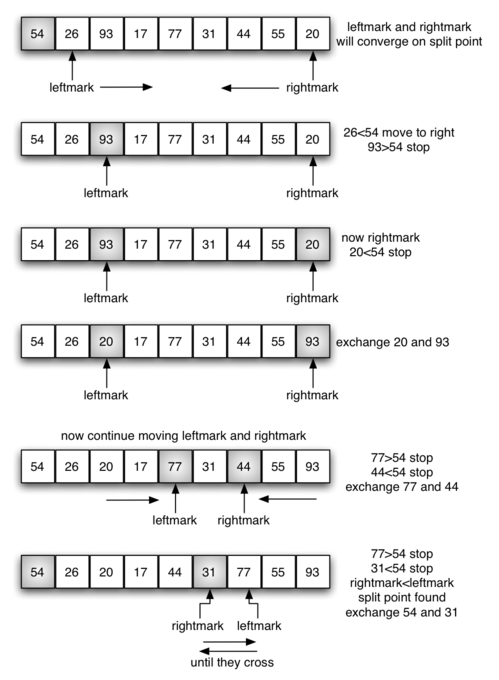
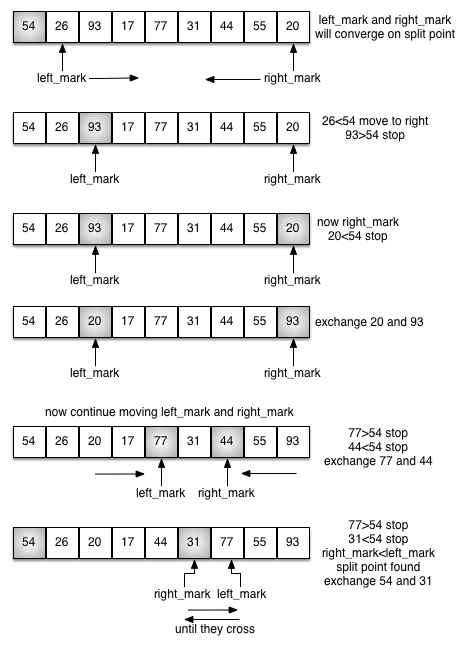
Update source code to adhere to PEP8

Changed region(s): [[0.0, 0.0, 0.9809, 0.5882], [0.0, 0.805, 0.9214, 0.9907], [0.0, 0.6192, 0.9214, 0.774]]

diff --git a/_sources/SortSearch/TheQuickSort.rst b/_sources/SortSearch/TheQuickSort.rst
@@ -38,7 +38,7 @@ either less than or greater than the pivot value.
 
 
 Partitioning begins by locating two position markers—let’s call them
-``leftmark`` and ``rightmark``—at the beginning and end of the remaining
+``left_mark`` and ``right_mark``—at the beginning and end of the remaining
 items in the list (positions 1 and 8 in :ref:`Figure 13 <fig_partitionA>`). The goal
 of the partition process is to move items that are on the wrong side
 with respect to the pivot value while also converging on the split
@@ -52,15 +52,15 @@ of 54.
 
    Figure 13: Finding the Split Point for 54
 
-We begin by incrementing ``leftmark`` until we locate a value that is
-greater than the pivot value. We then decrement ``rightmark`` until we
+We begin by incrementing ``left_mark`` until we locate a value that is
+greater than the pivot value. We then decrement ``right_mark`` until we
 find a value that is less than the pivot value. At this point we have
 discovered two items that are out of place with respect to the eventual
 split point. For our example, this occurs at 93 and 20. Now we can
 exchange these two items and then repeat the process again.
 
-At the point where ``rightmark`` becomes less than ``leftmark``, we
-stop. The position of ``rightmark`` is now the split point. The pivot
+At the point where ``right_mark`` becomes less than ``left_mark``, we
+stop. The position of ``right_mark`` is now the split point. The pivot
 value can be exchanged with the contents of the split point and the
 pivot value is now in place (:ref:`Figure 14 <fig_partitionB>`). In addition, all the
 items to the left of the split point are less than the pivot value, and
@@ -76,8 +76,8 @@ can be invoked recursively on the two halves.
    Figure 14: Completing the Partition Process to Find the Split Point for 54
 
 
-The ``quickSort`` function shown in :ref:`ActiveCode 1 <lst_quick>` invokes a recursive
-function, ``quickSortHelper``. ``quickSortHelper`` begins with the same
+The ``quick_sort`` function shown in :ref:`ActiveCode 1 <lst_quick>` invokes a recursive
+function, ``quick_sort_helper``. ``quick_sort_helper`` begins with the same
 base case as the merge sort. If the length of the list is less than or
 equal to one, it is already sorted. If it is greater, then it can be
 partitioned and recursively sorted. The ``partition`` function
@@ -87,50 +87,43 @@ implements the process described earlier.
 .. activecode:: lst_quick
     :caption: Quick Sort
 
-    def quickSort(alist):
-       quickSortHelper(alist,0,len(alist)-1)
-
-    def quickSortHelper(alist,first,last):
-       if first<last:
-
-           splitpoint = partition(alist,first,last)
-
-           quickSortHelper(alist,first,splitpoint-1)
-           quickSortHelper(alist,splitpoint+1,last)
+    def quick_sort(a_list):
+        quick_sort_helper(a_list, 0, len(a_list) - 1)
 
 
-    def partition(alist,first,last):
-       pivotvalue = alist[first]
-
-       leftmark = first+1
-       rightmark = last
-
-       done = False
-       while not done:
-
-           while leftmark <= rightmark and alist[leftmark] <= pivotvalue:
-               leftmark = leftmark + 1
-
-           while alist[rightmark] >= pivotvalue and rightmark >= leftmark:
-               rightmark = rightmark -1
-
-           if rightmark < leftmark:
-               done = True
-           else:
-               temp = alist[leftmark]
-               alist[leftmark] = alist[rightmark]
-               alist[rightmark] = temp
-
-       temp = alist[first]
-       alist[first] = alist[rightmark]
-       alist[rightmark] = temp
+    def quick_sort_helper(a_list, first, last):
+        if first < last:
+            split = partition(a_list, first, last)
+            quick_sort_helper(a_list, first, split - 1)
+            quick_sort_helper(a_list, split + 1, last)
 
 
-       return rightmark
+    def partition(a_list, first, last):
+        pivot_val = a_list[first]
+        left_mark = first + 1
+        right_mark = last
+        done = False
 
-    alist = [54,26,93,17,77,31,44,55,20]
-    quickSort(alist)
-    print(alist)
+        while not done:
+            while left_mark <= right_mark and a_list[left_mark] <= pivot_val:
+                left_mark = left_mark + 1
+            while left_mark <= right_mark and a_list[right_mark] >= pivot_val:
+                right_mark = right_mark - 1
+            if right_mark < left_mark:
+                done = True
+            else:
+                a_list[left_mark], a_list[right_mark] = (
+                    a_list[right_mark],
+                    a_list[left_mark],
+                )
+        a_list[first], a_list[right_mark] = a_list[right_mark], a_list[first]
+
+        return right_mark
+
+
+    a_list = [54, 26, 93, 17, 77, 31, 44, 55, 20]
+    quick_sort(a_list)
+    print(a_list)
 
 
 
@@ -146,66 +139,57 @@ implements the process described earlier.
 .. .. codelens:: quicktrace
 ..     :caption: Tracing the Quick Sort
 ..
-..     def quickSort(alist):
-..        quickSortHelper(alist,0,len(alist)-1)
-..
-..     def quickSortHelper(alist,first,last):
-..        if first<last:
-..
-..            splitpoint = partition(alist,first,last)
-..
-..            quickSortHelper(alist,first,splitpoint-1)
-..            quickSortHelper(alist,splitpoint+1,last)
-..
-..
-..     def partition(alist,first,last):
-..        pivotvalue = alist[first]
-..
-..        leftmark = first+1
-..        rightmark = last
-..
-..        done = False
-..        while not done:
-..
-..            while leftmark <= rightmark and \
-..                    alist[leftmark] <= pivotvalue:
-..                leftmark = leftmark + 1
-..
-..            while alist[rightmark] >= pivotvalue and \
-..                    rightmark >= leftmark:
-..                rightmark = rightmark -1
-..
-..            if rightmark < leftmark:
-..                done = True
-..            else:
-..                temp = alist[leftmark]
-..                alist[leftmark] = alist[rightmark]
-..                alist[rightmark] = temp
-..
-..        temp = alist[first]
-..        alist[first] = alist[rightmark]
-..        alist[rightmark] = temp
-..
-..
-..        return rightmark
-..
-..     alist = [54,26,93,17,77,31,44,55,20]
-..     quickSort(alist)
-..     print(alist)
+..     def quick_sort(a_list):
+..         quick_sort_helper(a_list, 0, len(a_list) - 1)
+..     
+..     
+..     def quick_sort_helper(a_list, first, last):
+..         if first < last:
+..             split = partition(a_list, first, last)
+..             quick_sort_helper(a_list, first, split - 1)
+..             quick_sort_helper(a_list, split + 1, last)
+..     
+..     
+..     def partition(a_list, first, last):
+..         pivot_val = a_list[first]
+..         left_mark = first + 1
+..         right_mark = last
+..         done = False
+..     
+..         while not done:
+..             while left_mark <= right_mark and a_list[left_mark] <= pivot_val:
+..                 left_mark = left_mark + 1
+..             while left_mark <= right_mark and a_list[right_mark] >= pivot_val:
+..                 right_mark = right_mark - 1
+..             if right_mark < left_mark:
+..                 done = True
+..             else:
+..                 a_list[left_mark], a_list[right_mark] = (
+..                     a_list[right_mark],
+..                     a_list[left_mark],
+..                 )
+..         a_list[first], a_list[right_mark] = a_list[right_mark], a_list[first]
+..     
+..         return right_mark
+..     
+..     
+..     a_list = [54, 26, 93, 17, 77, 31, 44, 55, 20]
+..     quick_sort(a_list)
+..     print(a_list)
 
-To analyze the ``quickSort`` function, note that for a list of length
-*n*, if the partition always occurs in the middle of the list, there
-will again be :math:`\log n` divisions. In order to find the split
-point, each of the *n* items needs to be checked against the pivot
-value. The result is :math:`n\log n`. In addition, there is no need
+To analyze the ``quick_sort`` function, note that for a list of length
+:math:`n`, if the partition always occurs in the middle of the list, there
+will again be :math:`\log{n}` divisions. In order to find the split
+point, each of the :math:`n` items needs to be checked against the pivot
+value. The result is :math:`n\log{n}`. In addition, there is no need
 for additional memory as in the merge sort process.
 
 Unfortunately, in the worst case, the split points may not be in the
 middle and can be very skewed to the left or the right, leaving a very
-uneven division. In this case, sorting a list of *n* items divides into
-sorting a list of 0 items and a list of :math:`n-1` items. Then
-sorting a list of :math:`n-1` divides into a list of size 0 and a list
-of size :math:`n-2`, and so on. The result is an :math:`O(n^{2})`
+uneven division. In this case, sorting a list of :math:`n` items divides into
+sorting a list of 0 items and a list of :math:`n - 1` items. Then
+sorting a list of :math:`n - 1` divides into a list of size 0 and a list
+of size :math:`n - 2`, and so on. The result is an :math:`O(n^{2})`
 sort with all of the overhead that recursion requires.
 
 We mentioned earlier that there are different ways to choose the pivot
